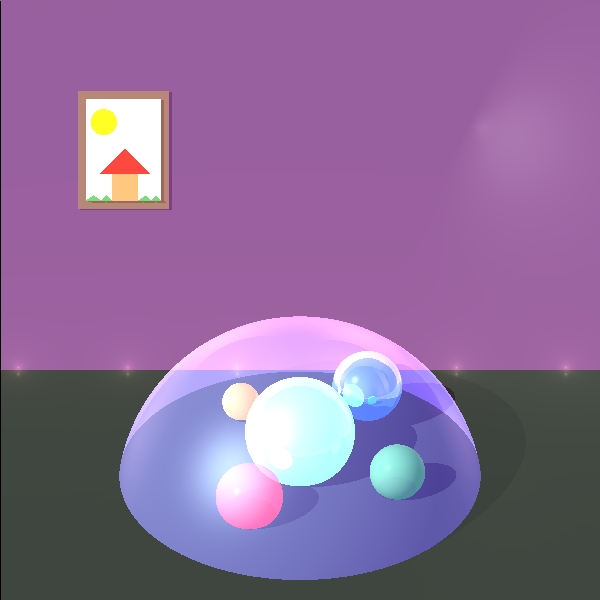
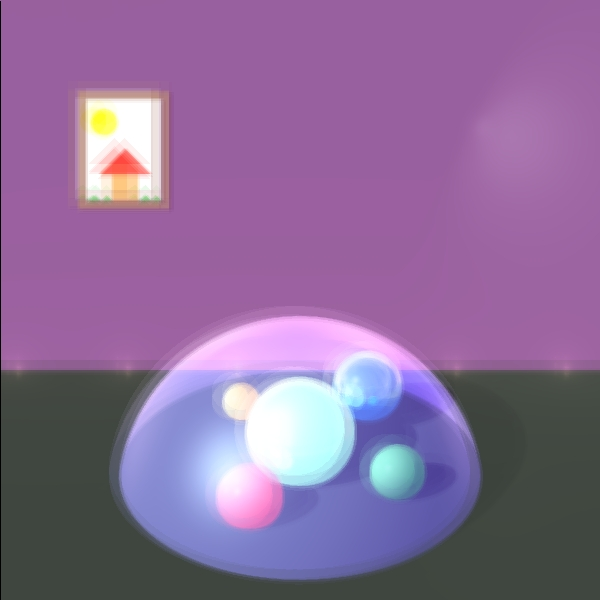
superSampling

diff --git a/project/src/elements/Camera.java b/project/src/elements/Camera.java
@@ -146,11 +146,19 @@ public class Camera
 		double Kup = 0;
 		double length = 1.01;
 		
+		rays.add(constructRayThroughPixel(nX, nY, j, i, screenDistance, screenWidth, screenHeight));
+		
+		if (numOfRays == 0) 
+		{
+			return rays;
+		}
+		
 		//view plane's center
 		Point3D Pc = new Point3D(_p0.add(_vTo.scale(screenDistance)));
 
 		double Ry = screenHeight/nY;
 		double Rx = screenWidth/nX;
+		double diagonal = Math.sqrt(Rx*Rx + Ry*Ry);
 
 		if (numOfRays >= 8)
 		{
@@ -173,15 +181,47 @@ public class Camera
 		}
 
 		//up left corner
-		for (int k = 0; k < Kdown; k++) 
+		for (double k = diagonal - 1.01; k <= 1.01; k -= diagonal-2.02/Kdown-1) 
 		{
+			double yi =  ((i - nY/2d)*Ry + Ry/k);
+			double xj=   ((j - nX/2d)*Rx + Rx/k);
 			
+			Point3D Pij = new Point3D(Pc);
+
+			if (! Util.isZero(xj))
+			{
+				Pij = new Point3D(Pij.add(_vRight.scale(xj)));
+			}
+			if (! Util.isZero(yi))
+			{
+				Pij = new Point3D(Pij.add(_vUp.scale((-1) * yi)));
+			}
+
+			Vector Vij = new Vector(Pij.subtract(_p0));
+			
+			rays.add(new Ray(Pij, Vij));
 		}
 
 		//up right corner
-		for (int k = 0; k < Kdown; k++) 
+		for (double k = diagonal - 1.01, w = 1.01; k <= 1.01; k -= diagonal-2.02/Kdown-1, w+=diagonal-2.02/Kdown-1) 
 		{
+			double yi =  ((i - nY/2d)*Ry + Ry/w);
+			double xj=   ((j - nX/2d)*Rx + Rx/k);
+			
+			Point3D Pij = new Point3D(Pc);
 
+			if (! Util.isZero(xj))
+			{
+				Pij = new Point3D(Pij.add(_vRight.scale(xj)));
+			}
+			if (! Util.isZero(yi))
+			{
+				Pij = new Point3D(Pij.add(_vUp.scale((-1) * yi)));
+			}
+
+			Vector Vij = new Vector(Pij.subtract(_p0));
+			
+			rays.add(new Ray(Pij, Vij));
 		}
 
 		//left to right

diff --git a/project/src/primitives/Color.java b/project/src/primitives/Color.java
@@ -133,7 +133,8 @@ public class Color {
      * @param colors one or more other colors to add
      * @return new Color object which is a result of the operation
      */
-    public Color add(Color... colors) {
+    public Color add(Color... colors) 
+    {
         double r = _r, g = _g, b = _b;
         for (Color c : colors) {
             r += c._r;

diff --git a/project/src/unittests/SuperSamplingTests.java b/project/src/unittests/SuperSamplingTests.java
@@ -1,0 +1,14 @@
+package unittests;
+
+import org.junit.Test;
+import elements.*;
+import geometries.Sphere;
+import geometries.Triangle;
+import primitives.*;
+import renderer.*;
+import scene.Scene;
+
+public class SuperSamplingTests 
+{
+	
+}
